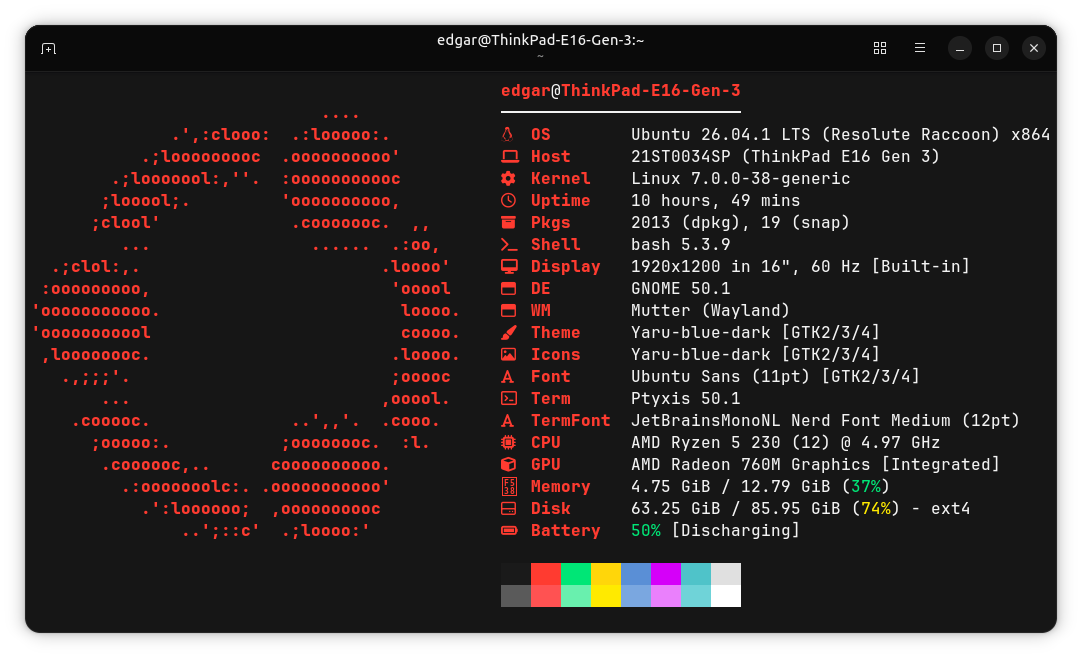
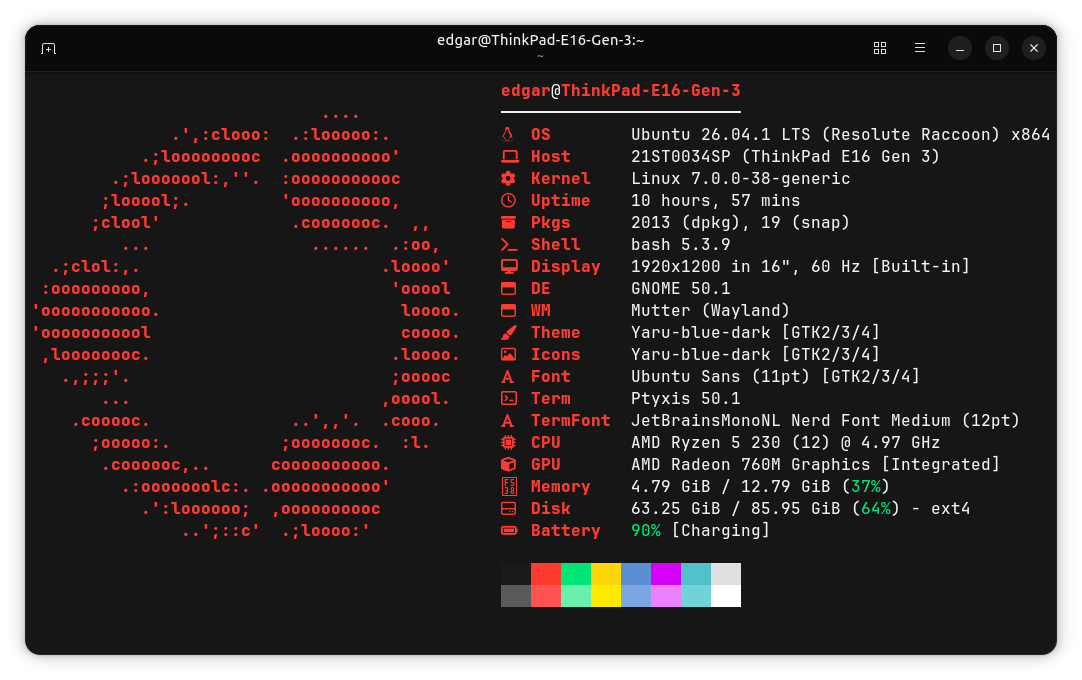
Actualizar captura y añadir pie de foto

diff --git a/README.md b/README.md
@@ -16,6 +16,8 @@ Cursando primer año del Grado en Ingeniería Informática. Me interesa entender
 
 <div align="center">
   <img src="assets/setup.png" alt="Mi terminal: Ptyxis con fastfetch en Ubuntu" width="100%">
+  <br>
+  <sub>Ptyxis + fastfetch en Ubuntu 26.04</sub>
 </div>
 
 ## 📦 Proyectos
